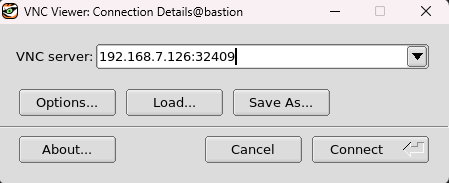
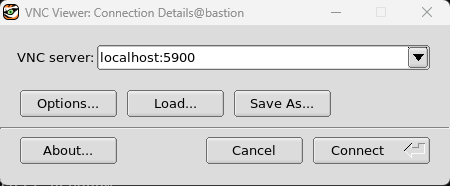
NodePort be gone

diff --git a/README.md b/README.md
@@ -13,7 +13,7 @@ This requires you have a working instance of OpenShift 4 running before continui
 * [Microshift](https://github.com/openshift/microshift)
 * <a href="https://developers.redhat.com/products/openshift-local/overview" target="_blank">OpenShift Local</a>
 
-Note that for this particular example you’ll need access to the [cluster-admin cluster role](https://docs.openshift.com/container-platform/4.12/authentication/using-rbac.html#:~:text=Cluster%20administrators%20can%20use%20the,has%20access%20to%20their%20projects.) which will give us the ability utilize [NodePort](https://docs.openshift.com/container-platform/latest/networking/configuring_ingress_cluster_traffic/configuring-ingress-cluster-traffic-nodeport.html) and manipulate permissions as needed. For that you will need full control of your OpenShift cluster. In addition, you will also need access to the [OpenShift Command Line Interface](https://docs.openshift.com/container-platform/4.12/cli_reference/openshift_cli/getting-started-cli.html) or “`oc`” tool.
+Note that for this particular example you’ll need access to the [cluster-admin cluster role](https://docs.openshift.com/container-platform/4.12/authentication/using-rbac.html#:~:text=Cluster%20administrators%20can%20use%20the,has%20access%20to%20their%20projects.) which will give you the ability manipulate permissions as needed. For that you will need full control of your OpenShift cluster. In addition, you will also need access to the [OpenShift Command Line Interface](https://docs.openshift.com/container-platform/4.12/cli_reference/openshift_cli/getting-started-cli.html) or “`oc`” tool.
 
 <br>
 
@@ -29,8 +29,6 @@ oc new-project ocpdoom
 ```
 
 2. We will now create a service account named `doomguy`, create a cluster role named `monster-control` and assign it to him:
-
-**NOTE: this is for demonstration puposes only. Do not run this on production systems.**
 
 ```bash
 oc create serviceaccount doomguy -n ocpdoom
@@ -74,13 +72,13 @@ Error from server (Forbidden): pods is forbidden: User "system:serviceaccount:oc
 2023/03/28 14:50:09 The following command failed: "[kubectl get pods -A -o go-template --template={{range .items}}{{.metadata.namespace}}/{{.metadata.name}} {{end}}]"
 ```
 
-It's because `ocpdoom` is trying to get a list of all pods in all namespaces. OpenShift restricts project to project, namespace to namespace interaction out of the box. Here's where the `doomguy` service account with his cluster role `monster-control` come in.
+It's because `ocpdoom` is trying to get a list of all pods in all namespaces. OpenShift restricts project to project/namespace to namespace interaction out of the box. Here's where the `doomguy` service account with his cluster role `monster-control` come in.
 
 Let's assign the newly created deployment the `doomguy` service account:
 ```bash
 oc set serviceaccount deployment ocpdoom doomguy -n ocpdoom
 ```
-We can also narrow down the scope of where we want ocpdoom to focus by setting the NAMESPACE environment variable in the deployment:
+We can also narrow down the scope of where we want ocpdoom to focus by setting the `NAMESPACE` environment variable in the deployment:
 
 ```bash
 oc set env deployment ocpdoom NAMESPACE=monsters
@@ -141,35 +139,29 @@ monster-5cf6c54d68-w6ctj   1/1     Running     0          3m27s
 
 ## Exposing DOOM
 
-In order for us to access DOOM from outside of OpenShift we’re going to use a Kubernetes service type [NodePort](https://kubernetes.io/docs/concepts/services-networking/service/#type-nodeport) for this particular example. To do that we will use [oc expose](https://docs.openshift.com/container-platform/latest/cli_reference/openshift_cli/developer-cli-commands.html#oc-expose) like so:
+In order for us to access DOOM from outside of OpenShift we’re going to use a Kubernetes service using the `oc expose` command:
 
 ```bash
-oc expose deployment/ocpdoom --port 5900 --type=NodePort
+oc expose deployment/ocpdoom --port 5900 -n ocpdoom
 ```
 
-## Connecting to DOOM
-
-The `ocpdoom` container houses a X11 and VNC server to display and connect to the game inside the container within the pod running inside of the OpenShift Container Platform. In order to do so you’ll need download and install the TigerVNC vncviewer found [here](https://sourceforge.net/projects/tigervnc/files/stable/).
-
-Now lets get the information we need to connect the `vncviewer` client:
-
-1. To get the external IP of the node the pod resides on and the NodePort use the following command:
+Then we'll open up a connection to that service over the default VNC port we exposed using the `oc port-forward`:
 
 ```bash
-echo $(oc get pods -l deployment=ocpdoom -o=jsonpath='{range .items[*]}{.status.hostIP}{end}'):$(oc get service -l app=ocpdoom -o=jsonpath='{range .items[*]}{.spec.ports[:1].nodePort}{"\n"}{end}' -n ocpdoom)
+oc port-foward deployment/ocpdoom 5900:5900 -n ocpdoom
 ```
 
-You should get an output with your specific `<hostIP>:<nodePort>`
+Leave that connection up and running and move on to the next section.
 
 <br>
 
-Example:
-```console
-192.168.7.126:32409
-```
+## Connecting to DOOM
 
+The `ocpdoom` container houses a X11 and VNC server to display and connect to the game inside the container within the pod running inside of the OpenShift Container Platform. In order to do so you’ll need to download and install the TigerVNC `vncviewer` found [here](https://sourceforge.net/projects/tigervnc/files/stable/)
 
-2. Open up your [vncviewer](https://sourceforge.net/projects/tigervnc/files/stable/) and point it to the `<hostIP>:<nodePort>` command. 
+Now open up the `vncviewer` application and enter in `<ip address>:5900` where the ip address is the host in which you're port-forwarding from. But make sure there is no firewall blocking access to TCP/5900 in-between you and the bastion host. 
+
+Or if the `oc port-forward` was issued from your localhost just use `localhost:5900` like so:
 
 
 <br>
